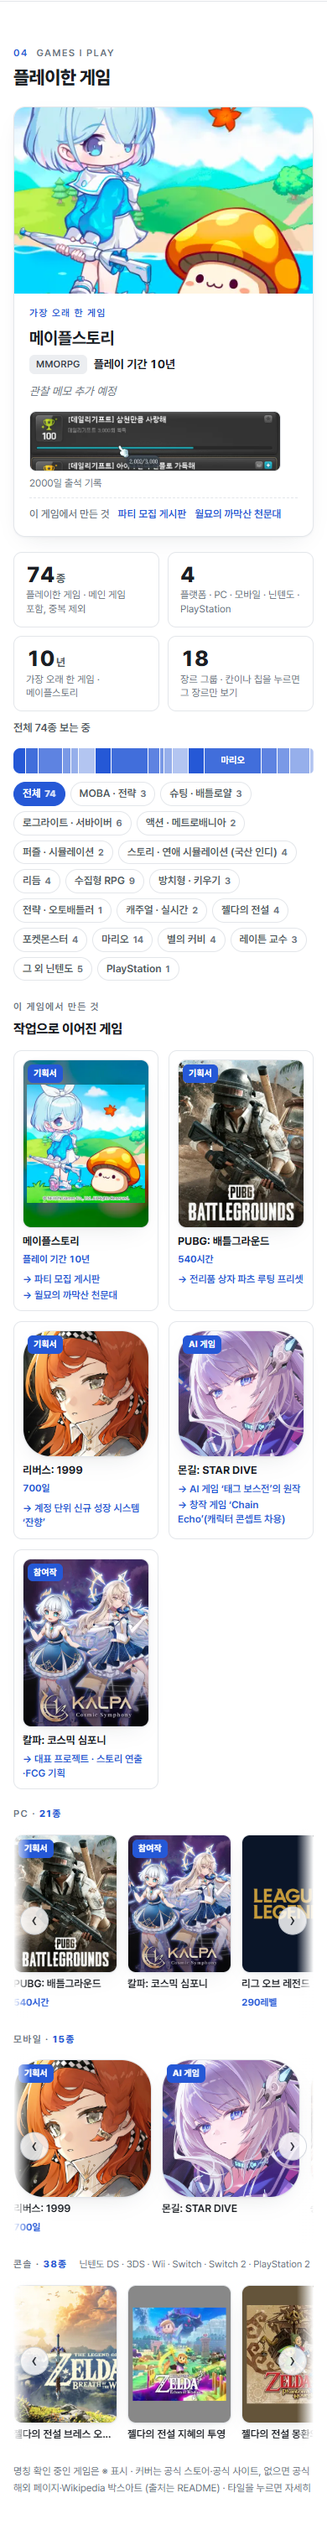
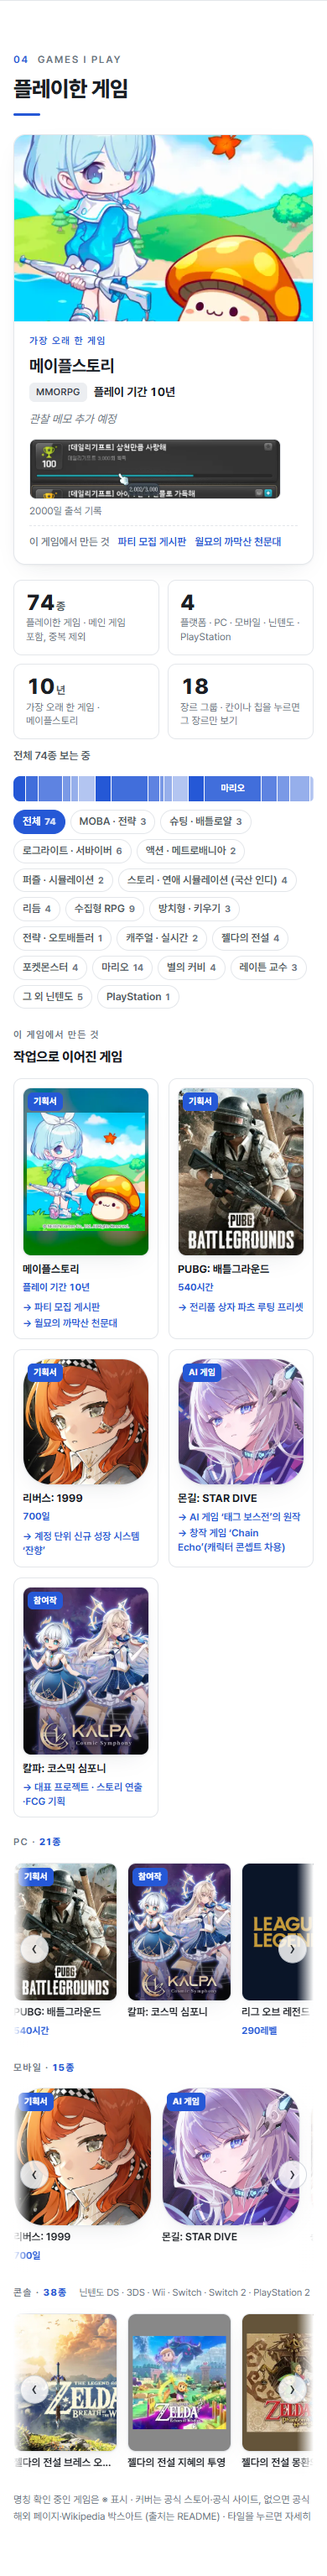
lab/ 레이아웃 B: 섹션 머리 위·본문 아래 전체 폭, 소제목 32px + 액센트 선, 여백 88px, 우측 내비 겹침 해결
- .section 2열 그리드 제거 → 머리(번호 라벨·제목·한 줄 설명) 위, 본문 아래 전체 폭. 02 섹션 구조를 01·03~08 에 적용
- 소제목 32px(모바일 26px)·굵기 800, 제목 아래 32×3px 액센트 선(흐린 큰 숫자 안과 비교 후 선택), 섹션 여백 88px
- 기존 문장만 머리로 이동(02 소개 한 줄, 06 "프리랜서 업무 1년차 신입 기획자입니다")
- 넓어진 본문에 맞춰 역량 카드 3열, 스트림 타일 165×220, 게임 밖 활동 스테이지 500px
- 1024~1279px 에서 본문 오른쪽 패딩 96px 로 우측 고정 내비 겹침 해결(간격 42px 확인)
- 스크린샷 전체 갱신 + sections-v11-1440·deco-line/num-1440·sidenav-1024, README 11차 항목

diff --git a/lab/lab.css b/lab/lab.css
@@ -215,31 +215,41 @@ img { max-width: 100%; display: block; }
 .btn.lg { padding: 12px 20px; font-size: 15px; }
 .btn.sm { padding: 7px 12px; font-size: 13px; border-radius: 9px; }
 
-/* ---------- Sections (label | content) ---------- */
+/* ---------- Sections (11차: 머리 위 · 본문 아래 전체 폭) ---------- */
 .section {
-  display: grid; grid-template-columns: 220px minmax(0, 1fr); gap: 32px;
-  padding: 72px 24px; border-top: 1px solid var(--border);
+  display: block;
+  padding: 88px 24px; border-top: 1px solid var(--border);
 }
-main > .section:first-child { border-top: 0; padding-top: 56px; }
-.section.compact { padding: 40px 24px; }
-.section-label { position: sticky; top: calc(var(--nav-h) + 24px); align-self: start; }
+main > .section:first-child { border-top: 0; padding-top: 64px; }
+.section.compact { padding: 48px 24px; }
+.section-label { position: relative; margin: 0 0 30px; }
 .section-label .en {
-  margin: 0 0 6px; font-size: 11.5px; font-weight: 600; letter-spacing: .12em; text-transform: uppercase; color: var(--text-3);
+  margin: 0 0 8px; font-size: 12px; font-weight: 600; letter-spacing: .14em; text-transform: uppercase; color: var(--text-3);
 }
 .section-label .en .num { color: var(--accent); margin-right: 10px; font-variant-numeric: tabular-nums; }
-.section-label .ko { margin: 0; font-size: 24px; font-weight: 800; line-height: 1.25; letter-spacing: -.02em; color: var(--text); }
+.section-label .ko { margin: 0; font-size: 32px; font-weight: 800; line-height: 1.2; letter-spacing: -.02em; color: var(--text); }
+.section-label .desc { margin: 12px 0 0; font-size: 15px; line-height: 1.65; color: var(--text-2); max-width: 46em; }
+.section-label .desc b { color: var(--text); font-weight: 700; }
+/* 장식 A: 제목 아래 짧은 액센트 선 */
+html[data-deco="line"] .section-label .ko::after { content: ""; display: block; width: 32px; height: 3px; border-radius: 2px; background: var(--accent); margin-top: 14px; }
+html[data-deco="line"] .section-label .desc { margin-top: 14px; }
 .section-body { min-width: 0; }
 .section-body > :first-child { margin-top: 0; }
 .label-links { list-style: none; margin: 14px 0 0; padding: 0; display: flex; flex-direction: column; gap: 6px; }
 .label-links a { font-size: 13px; color: var(--text-2); line-height: 1.45; display: block; }
 .label-links a .arrow { color: var(--accent); white-space: nowrap; font-weight: 600; }
 .label-links a:hover { color: var(--accent); text-decoration: none; }
+/* 1024~1279px: 우측 고정 내비 폭만큼 본문 오른쪽 여백 확보 (겹침 해결) */
+@media (min-width: 1024px) and (max-width: 1279.98px) {
+  main > .section, .dark-block .section, body > .wrap { padding-right: 96px; }
+}
 @media (max-width: 820px) {
-  .section { grid-template-columns: 1fr; gap: 20px; padding: 52px 24px; }
-  main > .section:first-child { padding-top: 40px; }
-  .section.compact { padding: 32px 24px; }
-  .section-label { position: static; }
-  .section-label .ko { font-size: 22px; }
+  .section { padding: 60px 24px; }
+  main > .section:first-child { padding-top: 44px; }
+  .section.compact { padding: 36px 24px; }
+  .section-label { margin-bottom: 22px; }
+  .section-label .ko { font-size: 26px; }
+  .section-label .desc { font-size: 14px; }
   .label-links { flex-direction: row; flex-wrap: wrap; gap: 6px 18px; }
 }
 @media (max-width: 640px) { .section { padding-left: 16px; padding-right: 16px; } }
@@ -264,7 +274,7 @@ main > .section:first-child { border-top: 0; padding-top: 56px; }
 }
 
 /* ---------- Project cards (2열, 썸네일) ---------- */
-.cards { display: grid; grid-template-columns: 1fr 1fr; gap: 18px; }
+.cards { display: grid; grid-template-columns: 1fr 1fr; gap: 22px; }
 .card {
   display: flex; flex-direction: column; overflow: hidden;
   border: 1px solid var(--border); border-radius: var(--radius);
@@ -302,8 +312,7 @@ main > .section:first-child { border-top: 0; padding-top: 56px; }
   --tag-bg: #232b38; --tag-text: #d3dae4;
   --shadow: 0 1px 2px rgba(0,0,0,.4), 0 14px 36px -16px rgba(0,0,0,.7);
 }
-.dark-block .section { border-top: 0; padding-top: 72px; padding-bottom: 80px; grid-template-columns: 1fr; gap: 24px; }
-.dark-block .section-label { position: static; }
+.dark-block .section { border-top: 0; padding-top: 80px; padding-bottom: 88px; }
 .dark-block + .section { border-top: 0; }
 .ai-card {
   display: grid; grid-template-columns: minmax(0, 1.45fr) minmax(300px, 1fr); gap: 28px; align-items: center;
@@ -350,7 +359,7 @@ main > .section:first-child { border-top: 0; padding-top: 56px; }
 }
 
 /* ---------- PDF portfolio cards ---------- */
-.pdf-grid { display: grid; grid-template-columns: 1fr 1fr; gap: 18px; }
+.pdf-grid { display: grid; grid-template-columns: 1fr 1fr; gap: 22px; }
 .pdf-card {
   border: 1px solid var(--border); border-radius: var(--radius); overflow: hidden;
   background: var(--card); box-shadow: var(--shadow); display: flex; flex-direction: column;
@@ -526,7 +535,7 @@ main > .section:first-child { border-top: 0; padding-top: 56px; }
 }
 
 /* ---------- 게임 밖 활동 (4차: 왼쪽 글 고정 + 오른쪽 큰 캐러셀) ---------- */
-.beyond-car { display: grid; grid-template-columns: minmax(0, 1fr) minmax(0, 2fr); gap: 24px; align-items: center; --stage-h: 480px; }
+.beyond-car { display: grid; grid-template-columns: minmax(0, 1fr) minmax(0, 2.2fr); gap: 28px; align-items: center; --stage-h: 500px; }
 .beyond-text { display: flex; flex-direction: column; gap: 6px; }
 .beyond-text .kicker { margin: 0; font-size: 11.5px; font-weight: 600; letter-spacing: .12em; text-transform: uppercase; color: var(--text-3); }
 .beyond-text h3 { margin: 0; font-size: 24px; font-weight: 800; letter-spacing: -.02em; line-height: 1.25; }
@@ -582,7 +591,8 @@ main > .section:first-child { border-top: 0; padding-top: 56px; }
 }
 
 /* ---------- 보유 역량: 아이콘 카드 ---------- */
-.skill-cards { list-style: none; margin: 0; padding: 0; display: grid; grid-template-columns: repeat(2, 1fr); gap: 10px; }
+.skill-cards { list-style: none; margin: 0; padding: 0; display: grid; grid-template-columns: repeat(3, 1fr); gap: 10px; }
+@media (max-width: 900px) { .skill-cards { grid-template-columns: repeat(2, 1fr); } }
 .skill-card {
   display: flex; align-items: center; gap: 12px; padding: 10px 12px;
   border: 1px solid var(--border); border-radius: var(--radius-sm); background: var(--card);
@@ -768,8 +778,8 @@ html:not(.js) .platform-panel::before { content: attr(aria-labelledby); display:
 .stream-view::after { right: 0; background: linear-gradient(to left, var(--bg), transparent); }
 .stream.is-short .stream-view::before, .stream.is-short .stream-view::after { display: none; }
 .stream .track { list-style: none; margin: 0; padding: 0 0 6px; display: flex; gap: 12px; width: max-content; will-change: transform; transform: translate3d(0, 0, 0); }
-.stream .tile { flex: none; width: 138px; }
-.stream .tile .tile-cover { height: 184px; }
+.stream .tile { flex: none; width: 165px; }
+.stream .tile .tile-cover { height: 220px; }
 .stream .tile .tile-cover img { -webkit-user-drag: none; }
 .stream-arrow {
   position: absolute; top: 50%; transform: translateY(-60%); z-index: 3; width: 34px; height: 34px; border-radius: 50%;
@@ -837,8 +847,8 @@ html:not(.js) .platform-panel::before { content: attr(aria-labelledby); display:
    8차: 모바일 정사각 타일 · 리듬 통합 · 게임 밖 활동 챕터형
    ============================================================ */
 /* 모바일 줄: 1:1 앱 아이콘 타일 */
-.stream .tile.is-square { width: 184px; }
-.stream .tile.is-square .tile-cover { height: 184px; aspect-ratio: 1 / 1; }
+.stream .tile.is-square { width: 220px; }
+.stream .tile.is-square .tile-cover { height: 220px; aspect-ratio: 1 / 1; }
 .stream .tile.is-square .tile-cover img { border-radius: 22%; }
 .linked-card.is-square .tile-cover { aspect-ratio: 1 / 1; }
 .linked-card.is-square .tile-cover img { border-radius: 22%; }
@@ -908,8 +918,6 @@ html:not(.js) .platform-panel::before { content: attr(aria-labelledby); display:
   src: url("assets/fonts/Jersey10.ttf") format("truetype");
   font-weight: 400; font-style: normal; font-display: swap;
 }
-.ai-intro { margin: -8px 0 18px; font-size: 14px; color: var(--dk-text-2); }
-.ai-intro b { color: var(--dk-text); font-weight: 700; }
 .badge-original { display: inline-block; margin-left: 8px; padding: 2px 9px; border-radius: 6px; background: var(--dk-accent); color: var(--dk-accent-text); font-size: 11px; font-weight: 800; letter-spacing: .04em; text-transform: none; vertical-align: 1px; }
 .ai-card.featured-game { display: grid; grid-template-columns: 1fr; gap: 18px; border-color: color-mix(in srgb, var(--dk-accent) 45%, var(--dk-border)); box-shadow: 0 0 0 1px color-mix(in srgb, var(--dk-accent) 25%, transparent), var(--shadow); }
 .fg-head { padding: 4px 4px 0; }

diff --git a/lab/index.html b/lab/index.html
@@ -1,5 +1,5 @@
 <!doctype html>
-<html lang="ko">
+<html lang="ko" data-deco="line">
 <head>
   <meta charset="utf-8" />
   <meta name="viewport" content="width=device-width, initial-scale=1" />
@@ -143,9 +143,9 @@
       <div class="section-label">
         <p class="en"><span class="num">02</span>Games Made with AI</p>
         <h2 class="ko">AI로 만든 게임</h2>
+        <p class="desc"><b>완전 카피</b>(길 건너기) → <b>큰 게임의 일부</b>(태그 보스전) → <b>창작</b>(Chain Echo) 순서로, 같은 방식(기획은 내가, 코드는 AI)으로 만든 세 게임입니다.</p>
       </div>
       <div class="section-body ai-list">
-        <p class="ai-intro"><b>완전 카피</b>(길 건너기) → <b>큰 게임의 일부</b>(태그 보스전) → <b>창작</b>(Chain Echo) 순서로, 같은 방식(기획은 내가, 코드는 AI)으로 만든 세 게임입니다.</p>
         <!-- 게임 3: 창작 데모 (피처드) -->
         <article class="ai-card featured-game reveal" id="chain-echo">
           <header class="fg-head">
@@ -1677,9 +1677,9 @@
     <div class="section-label">
       <p class="en"><span class="num">06</span>Professional Experience</p>
       <h2 class="ko">경력 사항</h2>
+      <p class="desc">프리랜서 업무 1년차 신입 기획자입니다.</p>
     </div>
     <div class="section-body">
-      <p class="muted small">프리랜서 업무 1년차 신입 기획자입니다.</p>
       <div class="exp-head">
         <span>케세라게임즈</span><span class="sep">|</span><span>프리랜서 기획자</span><span class="period">(2024 ~ 2025)</span>
       </div>

diff --git a/lab/README.md b/lab/README.md
@@ -599,3 +599,28 @@ PR #1 이 머지된 뒤 main 에서 새로 딴 브랜치입니다. 기존 파일
 
 - 플레이 화면: 공개 주소 `?stage=1-1` / `?stage=1-2` 로 열어(해당 스테이지에서 바로 시작) Playwright(Chrome) 1280×720, DPR 2 로 캔버스만 캡처 → 1440px WebP. 1-1 은 → 이동, Space 점프, S 태그(오필리아 얼음 활주) 뒤. 1-2 는 적이 시작 지점에서 약 1000px 떨어져 있어 키 입력만으로는 60회 걸어도 닿지 않아, 게임이 노출하는 검사용 API(`window.G3.P`)로 첫 적 왼쪽 95px 지점에 캐릭터를 둔 뒤 **실제 키 입력**(Shift 공격폼 → F 기본 공격 → A 태그 = 플레아 용 돌진)으로 찍었습니다. 시작 화면은 쓰지 않았습니다.
 - 페이지: `ai-featured-1440.png`(피처드 블록), `ai-section-1440.png`(섹션 전체), `chain-echo-spec-1440.png`(기획서 페이지 전체), `ai-featured-390.png`(모바일 피처드). 기존 파일명 캡처도 모두 갱신.
+
+---
+
+## 11차 (2026-11-25): 레이아웃 B — 섹션 머리 위 · 본문 아래 전체 폭, 소제목 확대 (브랜치 `lab/layout-b`, PR #3)
+
+PR #2 브랜치(`lab/ai-game-3`, Chain Echo 포함)에서 분기한 **비교용 안(B)** 입니다. PR #2 = 현재 안(A). 주인이 둘을 나란히 보고 고릅니다. 기존 루트 파일은 여전히 건드리지 않았고, 상세 페이지(`lab/projects/*.html`)는 그대로입니다.
+
+### A → B 차이
+
+- **섹션 구조**: `.section` 의 "왼쪽 라벨(220px) | 오른쪽 본문" 2열 그리드를 없애고 1열로. 섹션 머리(영문 번호 라벨 + 한글 제목 + 한 줄 설명)가 위, 본문이 아래 **전체 폭(최대 1000px)**. 02 AI 게임 섹션의 구조를 기준으로 01·03·04·05·06·07·08 을 맞췄습니다. sticky 라벨은 사라집니다.
+- **소제목**: 한글 제목 24px → **32px**(모바일 26px), 굵기 800, 자간 -0.02em. 영문 라벨은 12px 대문자·자간 .14em, 번호는 액센트·영문은 흐린 회색. **제목 아래 액센트 선(32×3px)** 으로 두드러지게.
+- **한 줄 설명**: 이미 페이지에 있던 문장만 머리로 옮겼습니다 — 02 "완전 카피 → 큰 게임의 일부 → 창작 …"(본문 위에서 머리로), 06 "프리랜서 업무 1년차 신입 기획자입니다."(본문에서 머리로). 다른 섹션은 해당 문장이 없어 비워 두었습니다(새로 짓지 않음).
+- **섹션 여백**: 72px → **88px**(첫 섹션 위 64px, 압축 섹션 48px, 820px 이하 60px). 다크 블록은 위 80 · 아래 88px.
+- **본문이 넓어진 만큼 재조정**: 대표 프로젝트 2열 유지(카드 폭 약 360 → 465px), PDF 2열 유지(썸네일 폭 같은 비율로 확대), 보유 역량 카드 2열 → **3열**(900px 이하 2열), 커버 스트림 타일 138×184 → **165×220**(정사각 아이콘 184 → 220), 게임 밖 활동 스테이지 480 → 500px(오른쪽 2.2fr).
+- **우측 내비 겹침 해결(1024~1279px)**: 이 구간에서 `main > .section`, 다크 블록 섹션, 연락처 띠에 **오른쪽 패딩 96px** 을 주어 내비 폭만큼 본문을 비웁니다(내비 위치는 그대로). Playwright 1024px 측정: 내비 왼쪽 가장자리 958px, 카드 오른쪽 가장자리 916px → **42px 간격**. 캡처 `lab/screenshots/sidenav-1024.png`.
+
+### 소제목 장식 선택: A(액센트 선)
+
+두 안을 모두 만들어 1440px 에서 섹션 머리 8개를 비교했습니다(`lab/screenshots/deco-line-1440.png`, `deco-num-1440.png`).
+- **B(번호를 큰 흐린 숫자로 뒤에)** 는 6% 투명도로는 라이트 배경에서 거의 읽히지 않고 다크 블록(02)에서는 완전히 묻힙니다. 읽히게 하려면 투명도를 올려야 하는데 그러면 "요란한 장식 금지" 톤에 어긋나고, 제목 폭이 짧은 섹션(학력·역량)에서는 숫자가 제목보다 커 보입니다.
+- **A(제목 아래 32×3px 액센트 선)** 는 라이트·다크 어디서나 같은 세기로 읽히고, 이미 쓰고 있는 액센트 역할(링크·버튼·현재 섹션)과 같은 색 한 가지만 더해 문서형 톤을 유지합니다. → **A 채택**, B 의 CSS 는 제거했습니다.
+
+### 스크린샷
+
+전부 갱신했고(1440 라이트·다크, 390, 섹션별 캡처, Chain Echo 캡처), 새로 `sections-v11-1440.png`(섹션 머리 8개를 300px 씩 잘라 세로로 모음), `deco-line-1440.png`·`deco-num-1440.png`(장식 비교), `sidenav-1024.png`(겹침 확인)를 추가했습니다.
